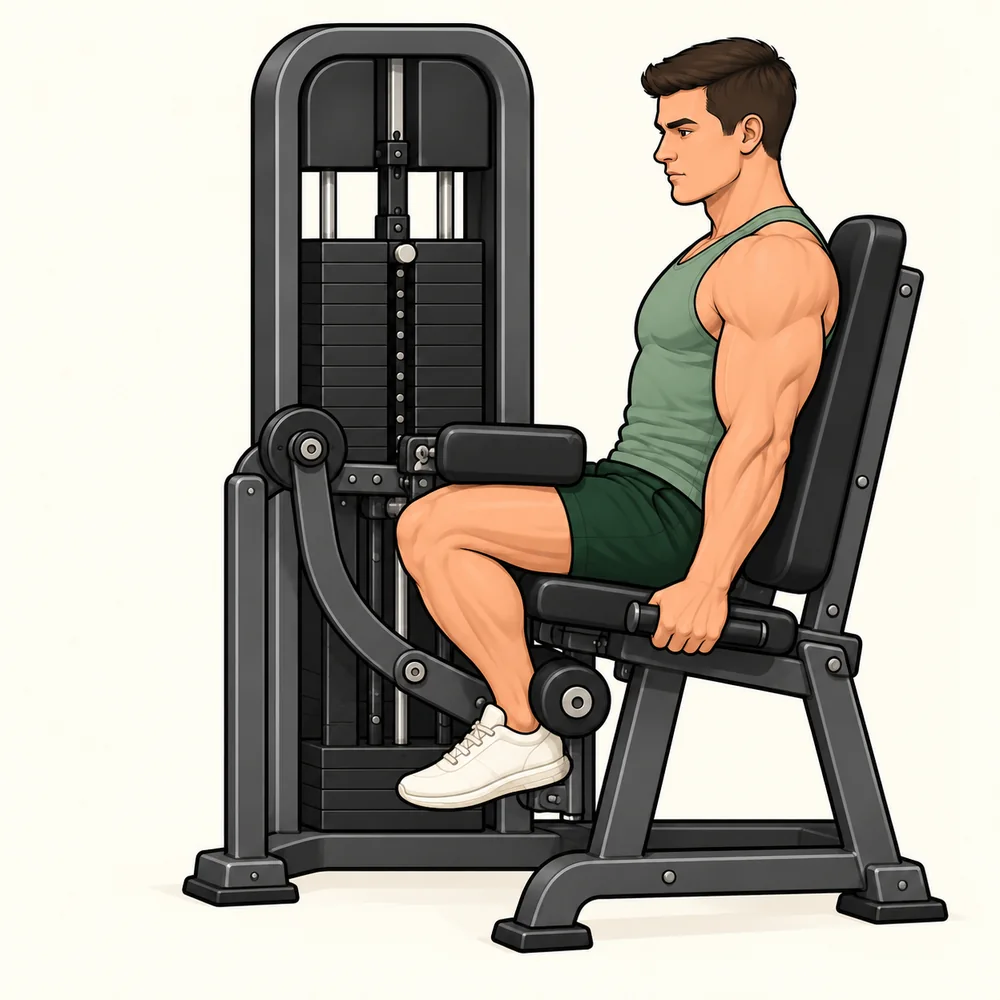
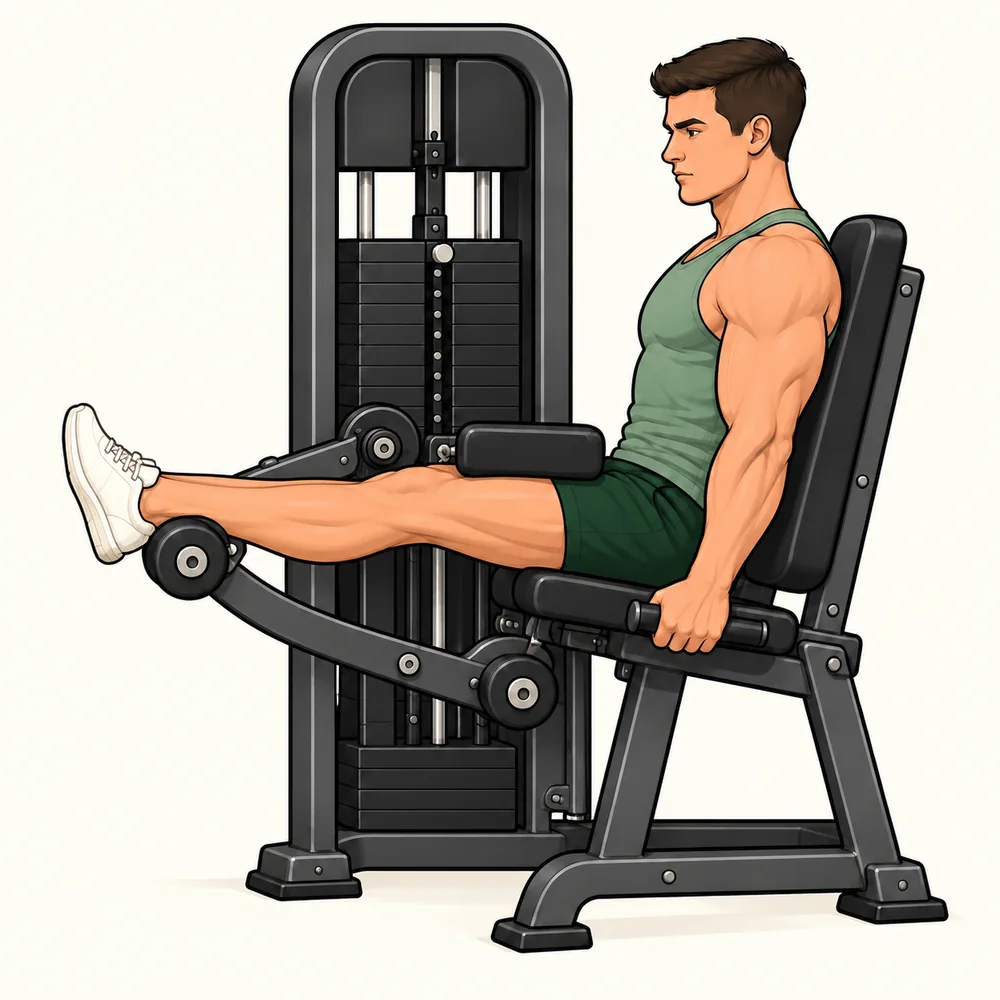
Show seated leg curl with legs extended above ankle roller

diff --git a/README.md b/README.md
@@ -189,4 +189,4 @@ Option A (white geometric dumbbell with mint accent on blue) is the installed PW
 
 ## Seated leg curl illustration correction
 
-`public/images/exercise-14.webp` now depicts a seated hamstring curl in side view: lap restraint above the thighs, knees flexed with feet under the seat, and posterior calf/Achilles roller behind the lower legs. This replaces the ambiguous extension-like illustration for all existing references, including Ivan Legs/Lower and the catalog, without modifying exercise identities, series, loads, active sessions or history. Built-in generated source and final correction prompt: `assets/seated-leg-curl-corrected.png` and `assets/seated-leg-curl-prompt.txt`.
+`public/images/exercise-14.webp` now depicts a seated hamstring curl in side view: lap restraint above the thighs, legs extended forward in the starting position, with posterior calf/Achilles resting on top of the moving ankle roller. This replaces the ambiguous extension-like illustration for all existing references, including Ivan Legs/Lower and the catalog, without modifying exercise identities, series, loads, active sessions or history. Built-in generated source and final correction prompt: `assets/seated-leg-curl-straight.png` and `assets/seated-leg-curl-straight-prompt.txt` (earlier bent-knee artwork is retained as a source variant).
